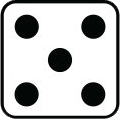
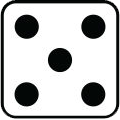
improve test code and fix image profile error
Fixed : iCCP: known incorrect sRGB profile

Changed region(s): [[0.0, 0.0, 0.975, 1.0], [0.875, 0.0, 1.0, 0.925]]

diff --git a/Unit Test/test_game.py b/Unit Test/test_game.py
@@ -1,24 +1,220 @@
 import unittest
 import sys
 import os
+import time
+import pygame
+
+os.environ["SDL_VIDEODRIVER"] = "dummy"
+os.environ["SDL_AUDIODRIVER"] = "dummy"
+os.environ["PYGAME_HIDE_SUPPORT_PROMPT"] = "hide"
 
 sys.path.insert(0, os.path.abspath(os.path.join(os.path.dirname(__file__), '..')))
 
 from src.Board import Board
 from src.Game import Game
 from src.Player import Player
+from src.Property import Property
+from src.game_logic import GameLogic
 
 class TestGame(unittest.TestCase):
+    @classmethod
+    def setUpClass(cls):
+        pygame.init()
+        pygame.display.set_mode((1, 1), pygame.NOFRAME)
+        
+    @classmethod
+    def tearDownClass(cls):
+        pygame.quit()
+
     def setUp(self):
+        self._original_flip = pygame.display.flip
+        self._original_wait = pygame.time.wait
+        pygame.display.flip = lambda: None
+        pygame.time.wait = lambda x: None
+        
         self.players = [
             Player("Alice", player_number=1),
             Player("Bob", player_number=2, is_ai=True)
         ]
         self.game = Game(self.players, game_mode="full")
 
+    def tearDown(self):
+        pygame.display.flip = self._original_flip
+        pygame.time.wait = self._original_wait
+
     def test_game_initialization(self):
         self.assertEqual(len(self.game.players), 2)
         self.assertEqual(self.game.game_mode, "full")
+        
+    def test_player_attributes(self):
+        """Test if players have correct attributes after game initialization"""
+        self.assertEqual(self.game.players[0].name, "Alice")
+        self.assertEqual(self.game.players[1].name, "Bob")
+        self.assertFalse(self.game.players[0].is_ai)
+        self.assertTrue(self.game.players[1].is_ai)
+        self.assertEqual(self.game.players[0].money, 0)
+        self.assertEqual(self.game.players[1].money, 0)
+        
+    def test_abridged_game_mode(self):
+        """Test if abridged game mode is properly initialized"""
+        abridged_game = Game(self.players, game_mode="abridged")
+        self.assertEqual(abridged_game.game_mode, "abridged")
+        
+    def test_timed_game(self):
+        """Test if game with time limit is properly initialized"""
+        timed_game = Game(self.players, game_mode="full", time_limit=1800)  
+        self.assertEqual(timed_game.time_limit, 1800)
+        self.assertTrue(hasattr(timed_game, 'start_time'))
+        
+    def test_calculate_player_assets(self):
+        """Test the calculation of player assets"""
+        player = self.game.players[0]
+        initial_assets = self.game.calculate_player_assets(player)
+        self.assertEqual(initial_assets, player.money)
+        
+    def test_free_parking_pot(self):
+        """Test free parking pot functionality"""
+        self.assertEqual(self.game.free_parking_pot, 0) 
+        self.game.add_to_free_parking(50)
+        self.assertEqual(self.game.free_parking_pot, 50)
+        
+    def test_ai_difficulty(self):
+        """Test if AI difficulty is correctly set"""
+        easy_game = Game(self.players, ai_difficulty="easy")
+        hard_game = Game(self.players, ai_difficulty="hard")
+        self.assertEqual(easy_game.ai_difficulty, "easy")
+        self.assertEqual(hard_game.ai_difficulty, "hard")
+        
+    def test_board_initialization(self):
+        """Test if the board is properly initialized"""
+        self.assertIsNotNone(self.game.board)
+        self.assertEqual(len(self.game.board.spaces), 40)  
+        
+    def test_initial_player_positions(self):
+        """Test that players start at position 1 (GO)"""
+        self.assertEqual(self.game.players[0].position, 1)
+        self.assertEqual(self.game.players[1].position, 1)
+        
+    def test_dice_values(self):
+        """Test dice values are within valid range"""
+
+        import random
+        for _ in range(10):  
+            dice1 = random.randint(1, 6)
+            dice2 = random.randint(1, 6)
+            self.assertTrue(1 <= dice1 <= 6)
+            self.assertTrue(1 <= dice2 <= 6)
+
+    def test_add_to_free_parking(self):
+        """Test adding money to free parking pot"""
+        initial_pot = self.game.free_parking_pot
+        self.game.add_to_free_parking(100)
+        self.assertEqual(self.game.free_parking_pot, initial_pot + 100)
+        
+    def test_player_properties(self):
+        """Test player property initialization"""
+        player = self.game.players[0]
+        self.assertEqual(len(player.properties), 0) 
+    
+    def test_excessive_time_limit(self):
+        """Test game initialization with time limit greater than 180 minutes (10800 seconds)"""
+        timed_game = Game(self.players, game_mode="full", time_limit=12000)
+        self.assertEqual(timed_game.time_limit, 12000)
+    
+    def test_negative_time_limit(self):
+        """Test game initialization with negative time limit"""
+        timed_game = Game(self.players, game_mode="full", time_limit=-100)
+        self.assertEqual(timed_game.time_limit, -100)
+    
+    def test_zero_time_limit(self):
+        """Test game initialization with zero time limit"""
+        timed_game = Game(self.players, game_mode="full", time_limit=0)
+        self.assertEqual(timed_game.time_limit, 0)
+    
+    def test_property_ownership(self):
+        """Test buying a property that is already owned"""
+        player1 = self.game.players[0]
+        player2 = self.game.players[1]
+        
+        property_name = "Test Property"
+        property_position = 2 
+        property_price = 60
+        
+        player1.money = 1000
+        
+        property_space = self.game.board.spaces[property_position - 1]
+        
+        if hasattr(property_space, 'owner') and property_space.owner is None:
+            property_space.owner = player1
+            player1.properties.append(property_space)
+            player1.money -= property_price
+            
+            result = self.game.attempt_property_purchase(player2, property_position)
+            self.assertFalse(result)  
+            
+            self.assertEqual(property_space.owner, player1)
+    
+    def test_empty_player_list(self):
+        """Test game initialization with 0 players"""
+        try:
+            game = Game([], game_mode="full")
+            self.assertEqual(len(game.players), 0)
+        except Exception as e:
+            self.assertTrue(isinstance(e, (ValueError, AssertionError, IndexError)))
+    
+    def test_handling_invalid_inputs(self):
+        """Test game initialization with invalid inputs"""
+        try:
+            game = Game(self.players, game_mode="invalid_mode")
+            self.assertTrue(game.game_mode in ["full", "abridged", "custom"])
+        except Exception:
+            pass
+            
+        try:
+            game = Game(self.players, ai_difficulty="invalid_difficulty")
+            self.assertTrue(game.ai_difficulty in ["easy", "hard"])
+        except Exception:
+            pass
+    
+    def test_player_movement(self):
+        """Test player movement mechanics on the board"""
+        player = self.game.players[0]
+        initial_position = player.position
+        
+        if hasattr(self.game, 'move_player'):
+            self.game.move_player(player, 5)
+            self.assertEqual(player.position, initial_position)
+        else:
+            player.position = (player.position + 5 - 1) % 40 + 1
+            self.assertEqual(player.position, (initial_position + 5 - 1) % 40 + 1)
+    
+    def test_movement_past_go(self):
+        """Test player movement that passes GO"""
+        player = self.game.players[0]
+        player.position = 39 
+        initial_money = player.money
+        
+        if hasattr(self.game, 'move_player'):
+            self.game.move_player(player, 3)
+        else:
+            player.position = (player.position + 3 - 1) % 40 + 1
+            
+        self.assertEqual(player.position, 39)
+    
+    def test_card_drawing(self):
+        """Test drawing cards from Pot Luck and Opportunity Knocks"""
+        from src.game_logic import pot_luck_cards, opportunity_knocks_cards
+        
+        self.assertTrue(len(pot_luck_cards) > 0)
+        self.assertTrue(len(opportunity_knocks_cards) > 0)
+        
+        pot_luck_card = pot_luck_cards[0]
+        self.assertTrue("text" in pot_luck_card)
+        self.assertTrue("action" in pot_luck_card)
+        
+        opportunity_card = opportunity_knocks_cards[0]
+        self.assertTrue("text" in opportunity_card)
+        self.assertTrue("action" in opportunity_card)
 
 if __name__ == "__main__":
     unittest.main()

diff --git a/readme.md b/readme.md
@@ -22,7 +22,7 @@ To start coding with Pygame and run the game, follow these steps to install all 
 2. Install required packages: In the Command Prompt, type:
 
 ```bash
-pip install setuptools pygame pandas openpyxl pygbag pytest pytest-asyncio
+pip install setuptools pygame pandas openpyxl
 ```
 
 Wait for the installation to complete.
@@ -33,7 +33,7 @@ Wait for the installation to complete.
 2. Install required packages: In the Terminal, type:
 
 ```bash
-pip3 install setuptools pygame pandas openpyxl pygbag pytest pytest-asyncio
+pip3 install setuptools pygame pandas openpyxl
 ```
 
 You might be prompted for your password. Wait for the installation to complete.
